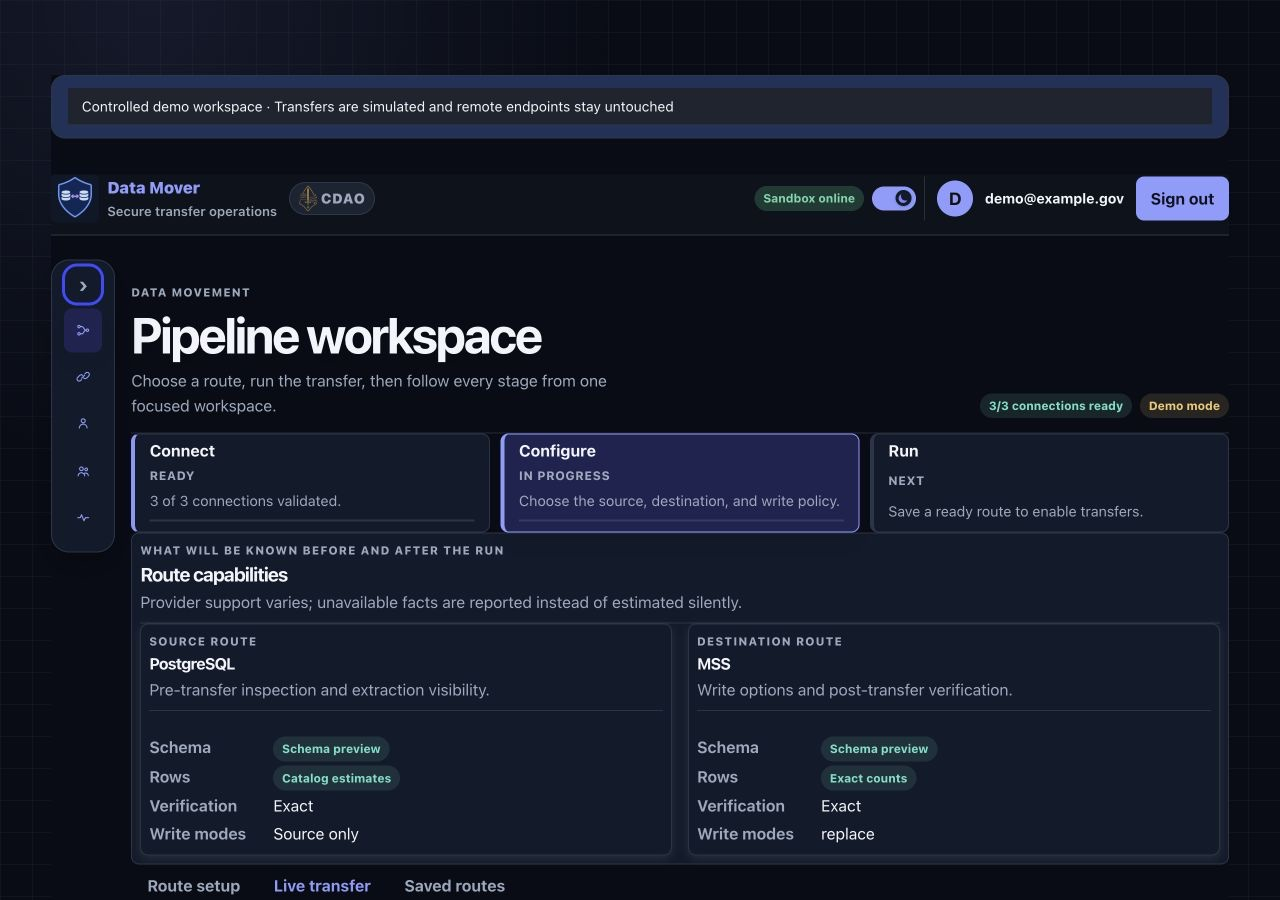
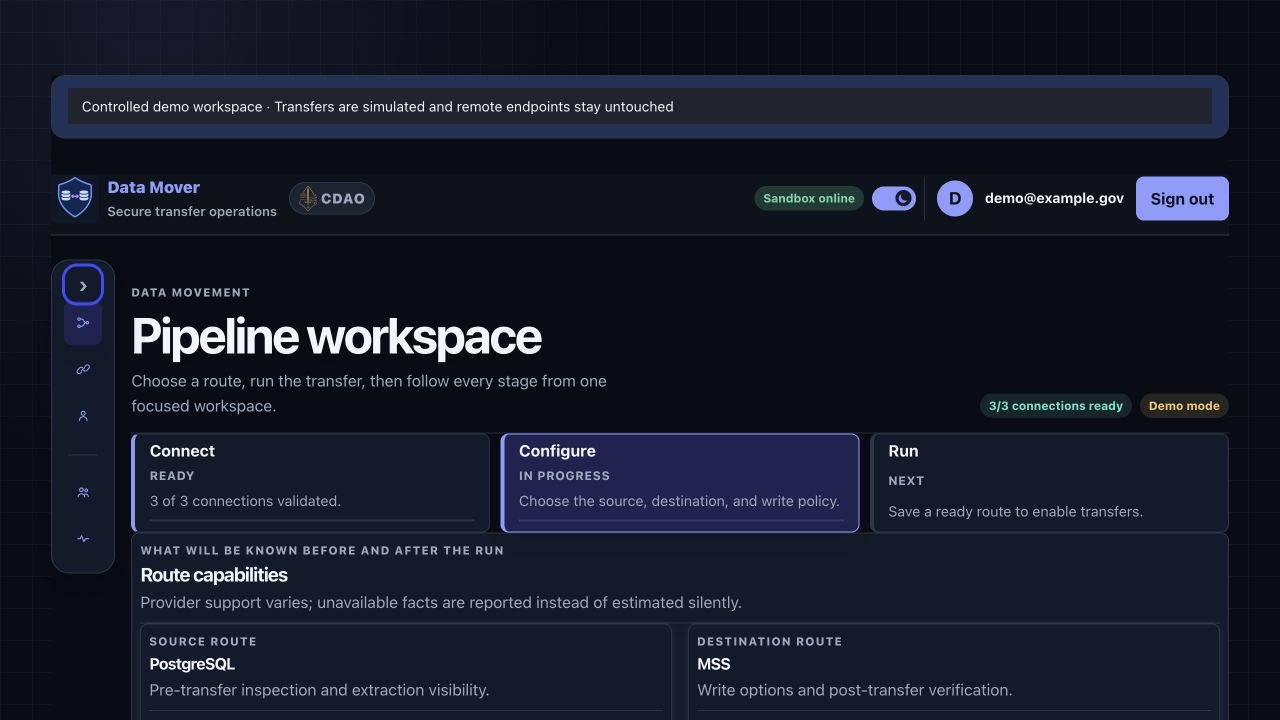
Preserve navigation groups when collapsed

Changed region(s): [[0.0312, 0.0611, 0.9688, 1.0], [0.75, 0.4278, 0.9688, 0.4889], [0.9375, 0.9472, 0.9688, 1.0]]

diff --git a/app/static/theme.css b/app/static/theme.css
@@ -154,15 +154,48 @@ body {
   transform: translateX(-50%);
 }
 
-.hedron-app-shell[data-nav-collapsed="true"]
-  .data-mover-nav-toggle-row
-  + .hedron-nav-group {
-  padding-block-start: 2.25rem;
+.hedron-app-shell[data-nav-collapsed="true"] .data-mover-side-nav > .hedron-nav-group {
+  min-inline-size: 0;
 }
 
-.hedron-app-shell[data-nav-collapsed="true"] .hedron-nav-group-label,
+.hedron-app-shell[data-nav-collapsed="true"] .hedron-nav-group-label {
+  contain: inline-size;
+  min-inline-size: 0;
+  overflow: hidden;
+  white-space: nowrap;
+}
+
 .hedron-app-shell[data-nav-collapsed="true"] .data-mover-side-nav > :last-child {
   display: none;
+}
+
+.hedron-app-shell[data-nav-collapsed="true"]
+  .data-mover-nav-toggle-row
+  + .hedron-nav-group
+  > .hedron-nav-group-label {
+  visibility: hidden;
+}
+
+.hedron-app-shell[data-nav-collapsed="true"]
+  .data-mover-side-nav
+  > .hedron-nav-group
+  + .hedron-nav-group
+  > .hedron-nav-group-label {
+  position: relative;
+  color: transparent;
+  user-select: none;
+}
+
+.hedron-app-shell[data-nav-collapsed="true"]
+  .data-mover-side-nav
+  > .hedron-nav-group
+  + .hedron-nav-group
+  > .hedron-nav-group-label::after {
+  position: absolute;
+  inset-block-start: 50%;
+  inset-inline: var(--hedron-space-1, 0.25rem);
+  border-block-start: 1px solid var(--hedron-color-border, var(--hedron-default-border));
+  content: "";
 }
 
 .hedron-app-shell[data-nav-collapsed="true"] .data-mover-nav-item {
@@ -170,6 +203,11 @@ body {
 }
 
 .hedron-app-shell[data-nav-collapsed="true"] .data-mover-nav-item .hedron-nav-link {
+  box-sizing: border-box;
+  inline-size: calc(
+    4rem - 2px - var(--hedron-space-3, 0.75rem) - var(--hedron-space-3, 0.75rem)
+  );
+  min-inline-size: 0;
   justify-content: flex-start;
 }
 
@@ -200,12 +238,29 @@ body {
     display: none;
   }
 
-  .hedron-app-shell[data-nav-collapsed="true"] .hedron-nav-group-label,
   .hedron-app-shell[data-nav-collapsed="true"] .data-mover-side-nav > :last-child {
     display: initial;
   }
 
+  .hedron-app-shell[data-nav-collapsed="true"] .hedron-nav-group-label {
+    contain: none;
+    overflow: visible;
+    visibility: visible;
+    color: inherit;
+    user-select: auto;
+    white-space: normal;
+  }
+
+  .hedron-app-shell[data-nav-collapsed="true"]
+    .data-mover-side-nav
+    > .hedron-nav-group
+    + .hedron-nav-group
+    > .hedron-nav-group-label::after {
+    display: none;
+  }
+
   .hedron-app-shell[data-nav-collapsed="true"] .data-mover-nav-item .hedron-nav-link {
+    inline-size: auto;
     justify-content: flex-start;
     font-size: inherit;
   }

diff --git a/tests/test_ui_shell.py b/tests/test_ui_shell.py
@@ -81,7 +81,7 @@ def test_login_page_document(access_app) -> None:
     assert_html_contains(response, 'name="preauth_csrf_token"')
     assert_html_contains(response, 'name="htmx-config"')
     assert_html_contains(response, 'href="/app-assets/hedron-desktop.css?v=2"')
-    assert_html_contains(response, 'href="/assets/theme.css?v=6"')
+    assert_html_contains(response, 'href="/assets/theme.css?v=7"')
     assert_html_contains(response, 'href="/app-assets/data-mover-components.css?v=6"')
     assert_html_contains(response, 'src="/assets/app.js?v=5"')
     assert_html_contains(
@@ -139,6 +139,9 @@ def test_hedron_component_bundles_are_served(access_app) -> None:
     assert ".hedron-app-shell-nav" not in theme.body
     assert ".hedron-card::before" not in theme.body
     assert '[data-hedron-mark="color-mode-toggle"] input::before' in theme.body
+    assert "contain: inline-size" in theme.body
+    assert "border-block-start: 1px solid" in theme.body
+    assert "color: transparent" in theme.body
     assert "stroke='%23b66a00'" in theme.body
     assert "fill='%237c86ff'" in theme.body
     desktop_styles = fixture.get("/app-assets/hedron-desktop.css")

diff --git a/tests/test_workbench_docker.py b/tests/test_workbench_docker.py
@@ -282,7 +282,7 @@ def test_app_login_page_under_session_mount(workbench_stack) -> None:
     )
     assert response.status_code == 200
     assert "Sign in" in response.text
-    assert 'href="/s/docker-session/p/8000/assets/theme.css?v=6"' in response.text
+    assert 'href="/s/docker-session/p/8000/assets/theme.css?v=7"' in response.text
     assert "/s/docker-session/p/8000/hedron-static/" in response.text
     cookie = response.headers.get("set-cookie", "")
     assert "Path=/s/docker-session/p/8000" in cookie

diff --git a/app/ui/layout.py b/app/ui/layout.py
@@ -155,7 +155,7 @@ def document_head(
         nodes.append(
             html.link(
                 rel="stylesheet",
-                href=asset_href(request, "/assets/theme.css?v=6"),
+                href=asset_href(request, "/assets/theme.css?v=7"),
             )
         )
         nodes.append(
